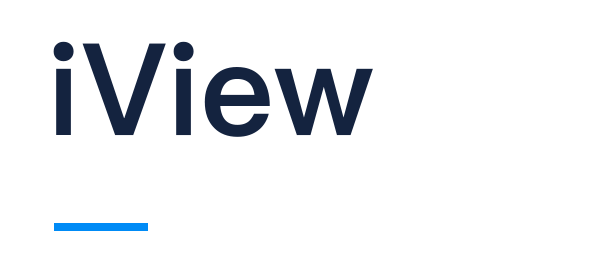
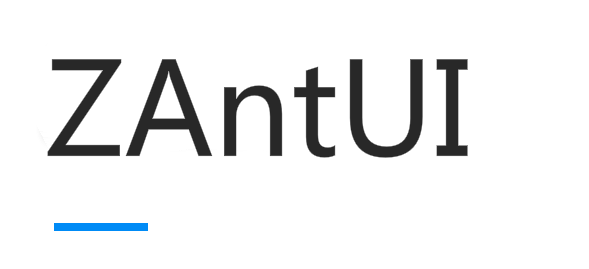
修改首页及底部

Changed region(s): [[0.0611, 0.1487, 0.7946, 0.5948]]

diff --git a/src/components/article.vue b/src/components/article.vue
@@ -102,19 +102,10 @@
                         </h4>
                         <ul>
                             <li>
-                                <a href="https://github.com/iview/iview" target="_blank">iView</a>
+                                <a href="https://github.com/zouhuigang/zantui" target="_blank">ZAntui</a>
                             </li>
                             <li>
-                                <a href="https://github.com/iview/iview-cli" target="_blank">iView Cli</a>
-                            </li>
-                            <li>
-                                <a href="https://github.com/iview/iview-admin" target="_blank">iView Admin</a>
-                            </li>
-                            <li>
-                                <a href="https://github.com/iview/iview-doc" target="_blank">iView Doc</a>
-                            </li>
-                            <li>
-                                <a href="https://github.com/iview/iview-project" target="_blank">iView Project</a>
+                                <a href="https://github.com/zouhuigang" target="_blank">zouhuigang</a>
                             </li>
                         </ul>
                     </i-col>
@@ -125,12 +116,12 @@
                         </h4>
                         <ul>
                             <li>
-                                <a href="https://www.talkingdata.com/" target="_blank">TalkingData</a> - {{ $t('index.td') }}
+                                <a href="https://www.anooc.com/" target="_blank">{{ $t('index.anooc_name') }}</a> - {{ $t('index.td') }}
                             </li>
                             <li>
-                                <a href="http://mi.talkingdata.com/" target="_blank">Marketing Intelligence</a> - {{ $t('index.td_mi') }}
+                                <a href="https://regex101.com/" target="_blank">regex101</a> - {{ $t('index.td_mi') }}
                             </li>
-                            <li>
+                            <!-- <li>
                                 <a href="https://github.com/TalkingData/inmap/" target="_blank">inMap</a> - {{ $t('index.inmap') }}
                             </li>
                             <li>
@@ -141,7 +132,7 @@
                             </li>
                             <li>
                                 <a href="https://github.com/TalkingData/owl" target="_blank">OWL</a> - {{ $t('index.OWL') }}
-                            </li>
+                            </li> -->
                         </ul>
                     </i-col>
                     <i-col span="5" offset="2">
@@ -167,13 +158,13 @@
                     <i-col span="5" offset="2">
                         <div class="footer-aside">
                             <div class="footer-logo">
-                                <img src="../images/logo.png">
+                                <img src="../images/anooc-logo-online.svg">
                             </div>
-                            <div class="footer-author">
+                            <!-- <div class="footer-author">
                                 <a href="https://www.talkingdata.com/">
                                     <img src="../images/logo-td.png">
                                 </a>
-                            </div>
+                            </div> -->
                             <!--<div class="footer-version">-->
                                 <!--<p>{{ $t('index.current_version') }}</p>-->
                                 <!--<p>Vue.js 2.5.13, iView 2.9.0</p>-->

diff --git a/src/locale.js b/src/locale.js
@@ -1,9 +1,9 @@
 export default {
     'zh-CN': {
         index: {
-            title: '一套基于 Vue.js 的高质量 UI 组件库',
-            title1: '一套基于 Vue.js 的高质量',
-            title2: 'UI 组件库',
+            title: '一套基于vue+iview的高质量 UI 组件库',
+            title1: 'Z蚂蚁UI,一套更高质量的UI组件库',
+            title2: '来源iView分支',
             start: '开始使用',
             guide: '指南',
             component: '组件',
@@ -17,8 +17,8 @@ export default {
             donate: '赞助',
             links: '相关站点',
             tc: '有逼格的程序员社区',
-            td: '用数据的心智去超越',
-            td_mi: '免费公开大数据查询平台',
+            td: '为有品质的生活',
+            td_mi: '在线正则表达式调试',
             inmap: '大数据地理信息可视化框架',
             Fregata: '大规模机器学习算法库',
             Myna: 'Android 平台情景感知框架',
@@ -31,14 +31,15 @@ export default {
             code_copy: '复制代码',
             code_fullscreen: '放大',
             code_jsfiddle: '在 JSFiddle 中打开',
-            current_version: '当前呈现版本：'
+            current_version: '当前呈现版本：',
+            anooc_name:'安橙在线工具箱'
         }
     },
     'en-US': {
         index: {
-            title: 'A high quality UI Toolkit based on Vue.js',
-            title1: 'A high quality UI Toolkit',
-            title2: 'based on Vue.js',
+            title: 'A high quality UI Toolkit based on Vue+iview',
+            title1: 'ZAntUI,A set of higher quality UI component libraries',
+            title2: 'Source iView branch',
             start: 'Getting Started',
             guide: 'Guide',
             component: 'Components',
@@ -52,8 +53,8 @@ export default {
             donate: 'Donate',
             links: 'Related Links',
             tc: 'Programmer Community',
-            td: 'Go beyond with the heart and mind of data',
-            td_mi: 'Free Public Mobile Big Data Query Platform',
+            td: 'For a quality life',
+            td_mi: 'Online regex tester and debugger',
             inmap: 'Map visualization',
             Fregata: 'Machine Learning Library',
             Myna: 'Android Situational Awareness Library',
@@ -66,7 +67,8 @@ export default {
             code_copy: 'Copy code',
             code_fullscreen: 'Fullscreen',
             code_jsfiddle: 'Open in JSFiddle',
-            current_version: 'Current Version:'
+            current_version: 'Current Version:',
+            anooc_name:'Anooc Tool'
         }
     }
 }

diff --git a/dist/index.html b/dist/index.html
@@ -5,12 +5,12 @@
     <meta name="description" content="A High quality and rich functions, friendly APIs, free and flexible UI Toolkit based on Vue.js.">
     <title>zantui - A high quality UI Toolkit based on Vue.js</title>
     <link rel="shortcut icon" href="https://www.anooc.com/static/favicon.ico">
-    <link rel="stylesheet" href="https://zantui.anooc.com/main.604637790df2db4bb0ae.css">
+    <link rel="stylesheet" href="https://zantui.anooc.com/main.b0124db954ccf3258632.css">
 </head>
 <body>
     <div id="app"></div>
-    <script type="text/javascript" src="https://zantui.anooc.com/vendors.604637790df2db4bb0ae.js"></script>
-    <script type="text/javascript" src="https://zantui.anooc.com/main.604637790df2db4bb0ae.js"></script>
+    <script type="text/javascript" src="https://zantui.anooc.com/vendors.b0124db954ccf3258632.js"></script>
+    <script type="text/javascript" src="https://zantui.anooc.com/main.b0124db954ccf3258632.js"></script>
     <script>
         var _hmt = _hmt || [];
         (function() {

diff --git a/src/libs/util.js b/src/libs/util.js
@@ -9,7 +9,7 @@ util.alert = function(content) {
 };
 
 util.title = function (title) {
-    title = title ? title + ' - iView' : 'iView - A high quality UI Toolkit based on Vue.js';
+    title = title ? title + ' - ZAntUI' : 'ZAntUI - A high quality UI Toolkit based on Vue+IView';
     window.document.title = title;
 };
 const SPECIAL_CHARS_REGEXP = /([\:\-\_]+(.))/g;
